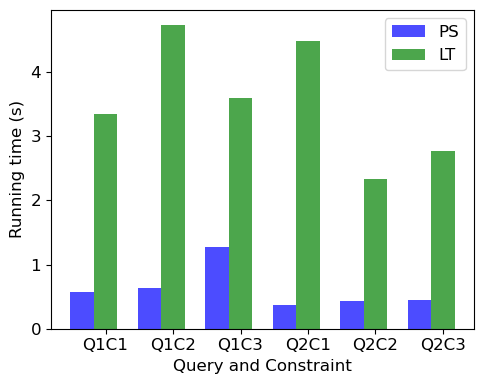
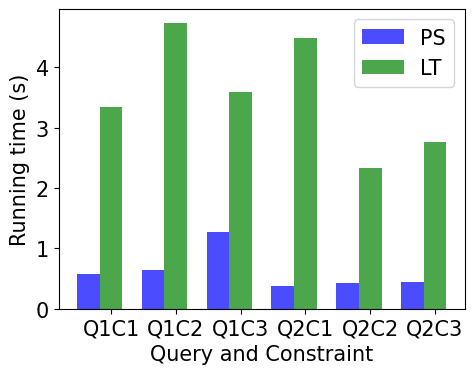
student data

Changed region(s): [[0.0, 0.0294, 0.9747, 0.9706], [0.1181, 0.0, 1.0, 0.8529]]

diff --git a/Experiment/student/relaxation/fig1.py b/Experiment/student/relaxation/fig1.py
@@ -1,0 +1,69 @@
+import matplotlib.pyplot as plt
+import seaborn as sns
+from matplotlib.ticker import FuncFormatter
+import numpy as np
+
+plt.rc('text', usetex=True)
+plt.rc('font', family='serif')
+
+
+sns.set_palette("Paired")
+# sns.set_palette("deep")
+sns.set_context("poster", font_scale=2)
+sns.set_style("whitegrid")
+# sns.palplot(sns.color_palette("deep", 10))
+# sns.palplot(sns.color_palette("Paired", 9))
+
+color = ['C1', 'C3']
+label = ["PS", "LT"]
+
+f_size = (14, 10)
+
+
+
+
+x_list = list()
+x_naive = list()
+execution_timeps = list()
+execution_timelt = list()
+
+input_path = r'time_0.csv'
+input_file = open(input_path, "r")
+
+Lines = input_file.readlines()
+
+count = 0
+# Strips the newline character
+for line in Lines:
+    count += 1
+    if line == '\n':
+        continue
+    if count < 2:
+        continue
+    if count > 8:
+        break
+    items = line.strip().split(',')
+    x_list.append(items[0])
+    execution_timeps.append(float(items[1]))
+    execution_timelt.append(float(items[2]))
+
+print(x_list, execution_timeps, execution_timelt)
+
+index = np.arange(len(x_list))
+bar_width = 0.35
+
+fig, ax = plt.subplots(1, 1, figsize=f_size)
+
+plt.bar(index, execution_timeps, bar_width, color=color[0], label=label[0])
+plt.bar(index + bar_width, execution_timelt, bar_width,  color=color[1], label=label[1])
+plt.xticks(index + bar_width, x_list)
+
+plt.xlabel('Query and Constraint')
+plt.ylabel('Running time (s)')
+
+plt.legend(loc='best')
+
+plt.tight_layout()
+plt.savefig("student_time_1.png",
+            bbox_inches='tight')
+plt.show()

diff --git a/Experiment/student/relaxation/fig.py b/Experiment/student/relaxation/fig.py
@@ -2,7 +2,7 @@ import numpy as np
 import matplotlib.pyplot as plt
 import pandas as pd
 
-plt.rcParams.update({'font.size': 12})
+plt.rcParams.update({'font.size': 15})
 
 
 x_list = list()
